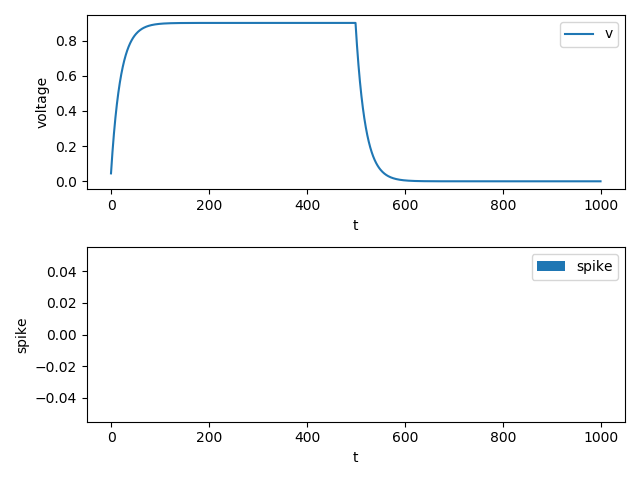
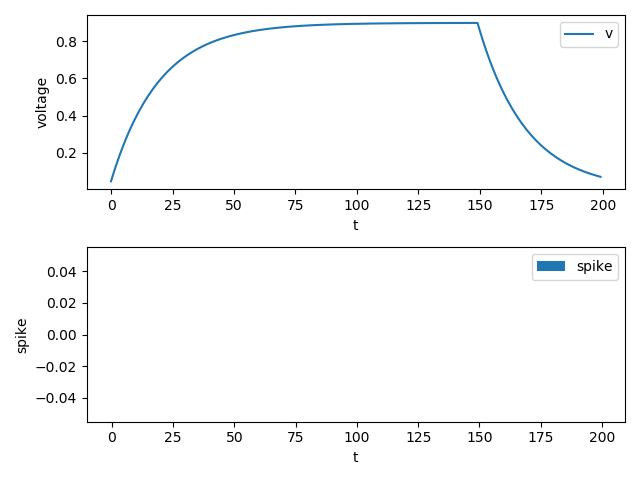
补充“快速上手教程”文档

diff --git a/SpikingFlow/neuron/__init__.py b/SpikingFlow/neuron/__init__.py
@@ -135,16 +135,17 @@ class IFNode(BaseNode):
         '''
         out_spike = self.next_out_spike
 
+        # 将上一个dt内过阈值的神经元重置
+        if isinstance(self.v_reset, torch.Tensor):
+            self.v[out_spike] = self.v_reset[out_spike]
+        else:
+            self.v[out_spike] = self.v_reset
         self.v += self.r * i
         self.next_out_spike = (self.v >= self.v_threshold)
         self.v[self.next_out_spike] = self.v_threshold
 
         self.v[self.v < self.v_reset] = self.v_reset
 
-        if isinstance(self.v_reset, torch.Tensor):
-            self.v[out_spike] = self.v_reset[out_spike]
-        else:
-            self.v[out_spike] = self.v_reset
         return out_spike
 
 
@@ -205,16 +206,17 @@ class LIFNode(BaseNode):
         '''
         out_spike = self.next_out_spike
 
+        # 将上一个dt内过阈值的神经元重置
+        if isinstance(self.v_reset, torch.Tensor):
+            self.v[out_spike] = self.v_reset[out_spike]
+        else:
+            self.v[out_spike] = self.v_reset
+
         v_decay = -(self.v - self.v_reset)
         self.v += (self.r * i + v_decay) / self.tau
         self.next_out_spike = (self.v >= self.v_threshold)
         self.v[self.next_out_spike] = self.v_threshold
         self.v[self.v < self.v_reset] = self.v_reset
-
-        if isinstance(self.v_reset, torch.Tensor):
-            self.v[out_spike] = self.v_reset[out_spike]
-        else:
-            self.v[out_spike] = self.v_reset
 
         return out_spike
 

diff --git a/test.py b/test.py
@@ -11,13 +11,13 @@ v_list = []
 # 新建一个空list，保存神经元的输出脉冲
 spike_list = []
 
-T = 1000
-# 运行1000次
+T = 200
+# 运行200次
 for t in range(T):
-    # 前500次，输入电流都是0.12
-    if t < 500:
+    # 前150次，输入电流都是0.12
+    if t < 150:
         spike_list.append(lif_node(0.12).float().item())
-    # 后500次，不输入，也就是输入0
+    # 后50次，不输入，也就是输入0
     else:
         spike_list.append(lif_node(0).float().item())
 
@@ -38,3 +38,7 @@ pyplot.xlabel('t')
 pyplot.ylabel('spike')
 pyplot.legend()
 pyplot.show()
+
+print('t', 'v', 'spike')
+for t in range(T):
+    print(t, v_list[t], spike_list[t])

diff --git a/docs/source/tutorial_0.rst b/docs/source/tutorial_0.rst
@@ -23,13 +23,13 @@ LIF神经元仿真
     # 新建一个空list，保存神经元的输出脉冲
     spike_list = []
 
-    T = 1000
-    # 运行1000次
+    T = 200
+    # 运行200次
     for t in range(T):
-        # 前500次，输入电流都是0.12
-        if t < 500:
-            spike_list.append(lif_node(0.12).float().item())
-        # 后500次，不输入，也就是输入0
+        # 前150次，输入电流都是0.1
+        if t < 150:
+            spike_list.append(lif_node(0.1).float().item())
+        # 后50次，不输入，也就是输入0
         else:
             spike_list.append(lif_node(0).float().item())
 
@@ -51,6 +51,10 @@ LIF神经元仿真
     pyplot.legend()
     pyplot.show()
 
+    print('t', 'v', 'spike')
+    for t in range(T):
+        print(t, v_list[t], spike_list[t])
+
 运行后得到的电压和脉冲如下
 
 .. image:: ./_static/tutorials/1.png
@@ -68,8 +72,8 @@ LIF神经元仿真
 
     ...
     for t in range(T):
-        # 前500次，输入电流都是0.12
-        if t < 500:
+        # 前150次，输入电流都是0.12
+        if t < 150:
             spike_list.append(lif_node(0.12).float().item())
     ...
 
@@ -77,7 +81,7 @@ LIF神经元仿真
 
 .. image:: ./_static/tutorials/2.png
 
-可以发现，LIF神经元已经开始大量发放脉冲了
+可以发现，LIF神经元已经开始发放脉冲了
 
 定义新的神经元
 -------------
@@ -89,3 +93,37 @@ LIF神经元仿真
 
 其中 :math:`tau_{m}` 是细胞膜的时间常数， :math:`V(t)` 是膜电位， :math:`V_{reset}` 是静息电压， :math:`R_{m}` 是膜电\
 阻， :math:`I(t)` 是输入电流
+
+SpikingFlow是时间驱动（time-driven）的框架，即将微分方程视为差分方程，通过逐步仿真来进行计算。例如LIF神经元，\
+代码位于SpikingFlow.neuron.LIFNode，参考它的实现：
+
+.. code-block:: python
+
+    def forward(self, i):
+        '''
+        :param i: 当前时刻的输入电流，可以是一个float，也可以是tensor
+        :return: out_spike: shape与self.shape相同，输出脉冲
+        '''
+        out_spike = self.next_out_spike
+
+        # 将上一个dt内过阈值的神经元重置
+        if isinstance(self.v_reset, torch.Tensor):
+            self.v[out_spike] = self.v_reset[out_spike]
+        else:
+            self.v[out_spike] = self.v_reset
+
+        v_decay = -(self.v - self.v_reset)
+        self.v += (self.r * i + v_decay) / self.tau
+        self.next_out_spike = (self.v >= self.v_threshold)
+        self.v[self.next_out_spike] = self.v_threshold
+        self.v[self.v < self.v_reset] = self.v_reset
+
+        return out_spike
+
+从代码中可以发现，t-dt时刻电压没有达到阈值，t时刻电压达到了阈值，则到t+dt时刻才会放出脉冲。这是为了方便查看波形图，如果不这样\
+设计，若t-dt时刻电压为0.1，v_threshold=1.0，v_reset=0.0, t时刻增加了0.9，直接在t时刻发放脉冲，则从波形图上看，电压从0.1直接\
+跳变到了0.0，不利于进行数据分析
+
+此外，“脉冲”被定义为“torch.bool”类型的变量。SNN中的神经元，输出的应该是脉冲而不是电压之类的其他值
+
+如果想自行实现其他类型的神经元，只需要继承SpikingFlow.neuron.BaseNode，并实现__init__()和forward()函数即可
